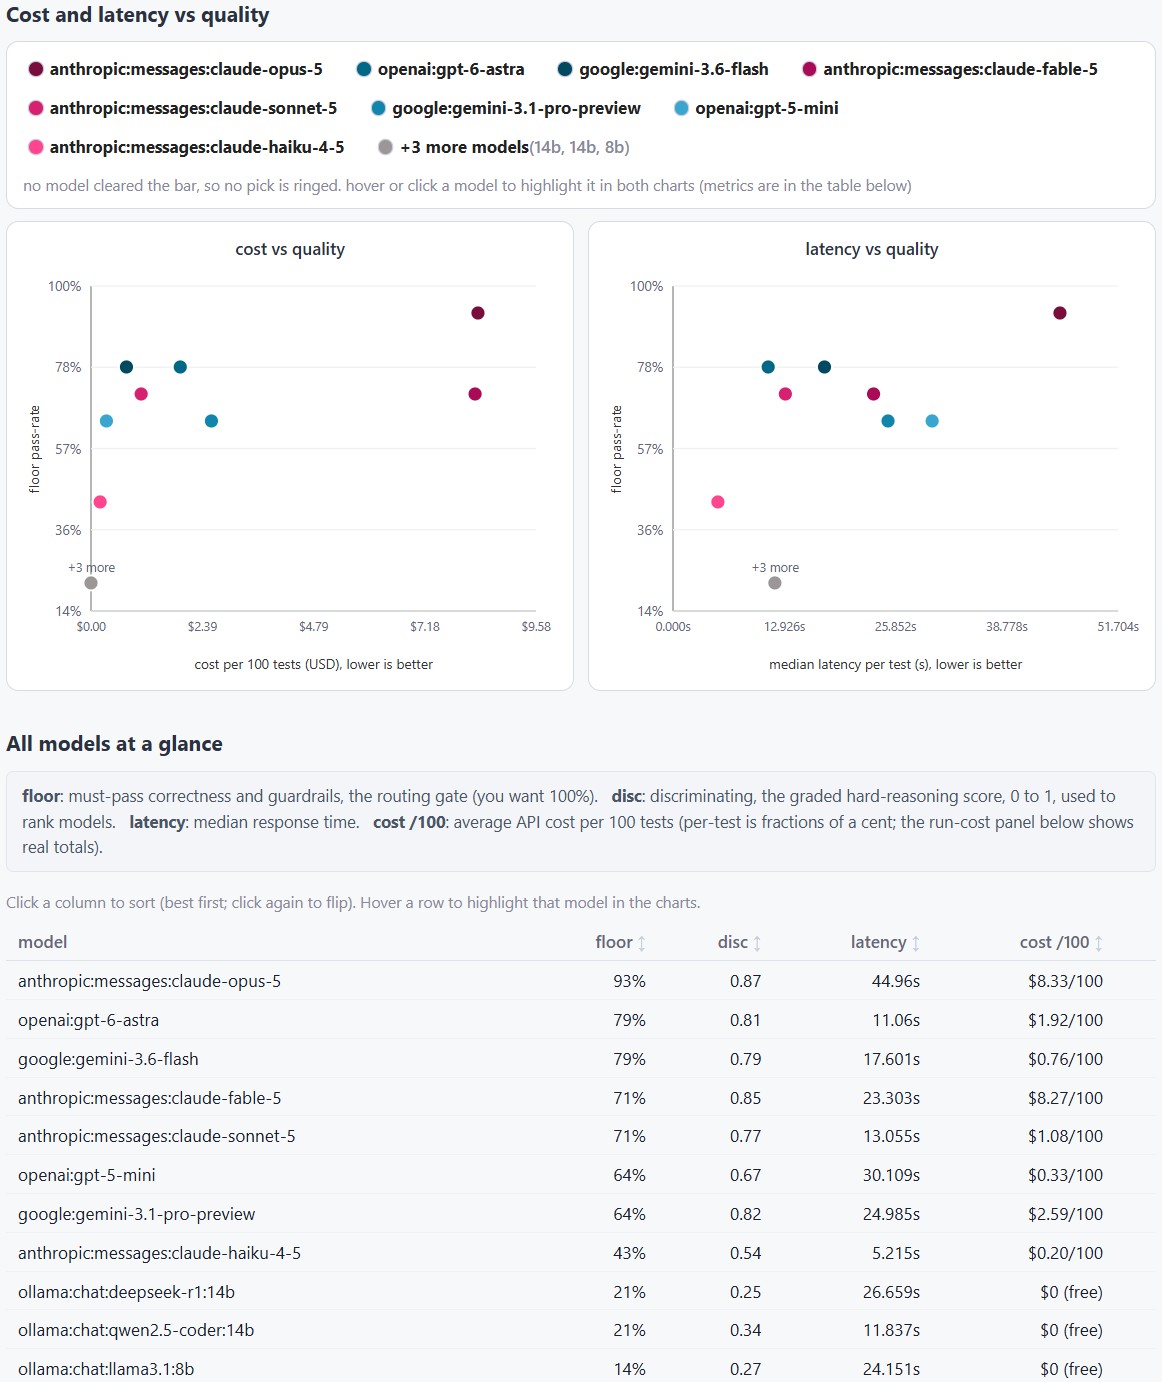
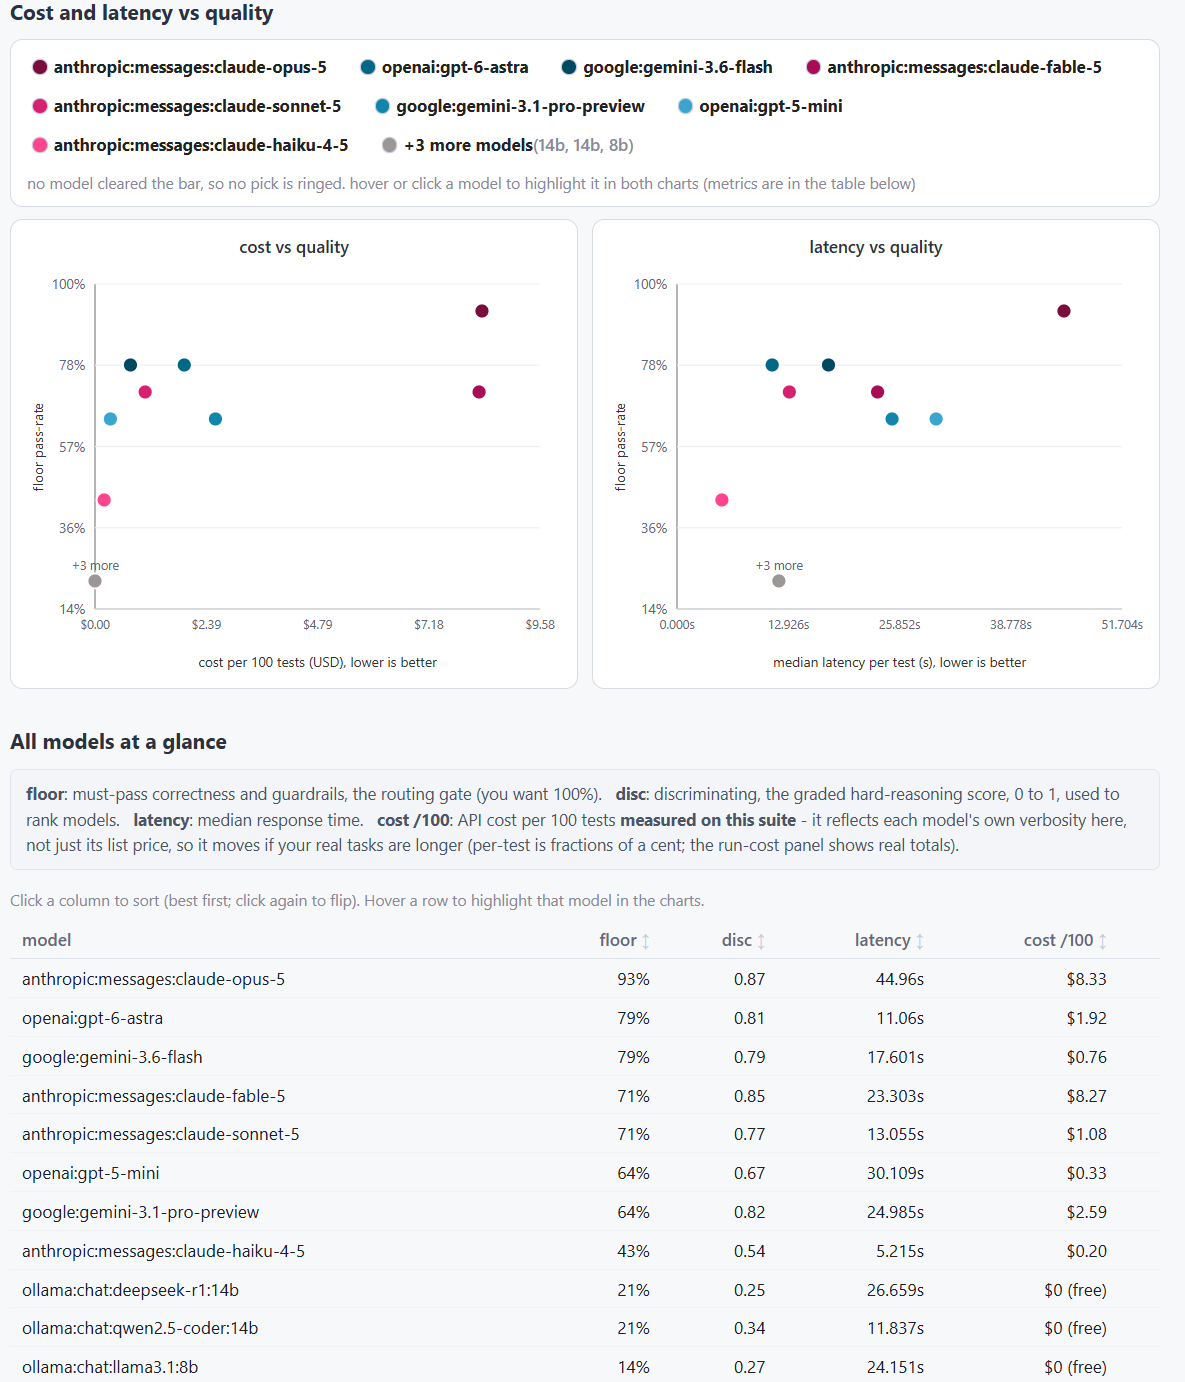
fix(template): sane default judge (sonnet-5 + max_tokens) with swap guidance
The starter template shipped opus-4-8 as the judge with no max_tokens - the
priciest grader, Anthropic-locked, and prone to the empty-grade bug at promptfoo's
2048 default. Default is now sonnet-5 with config.max_tokens 16000 and a comment
explaining the judge is configurable (pick a strong model you have a key for,
ideally a non-contestant; mid-tier keeps grading cost down). Added a providers note
about reasoning-model headroom, and the same guidance to the eval-design guide.
Also refreshes the example report screenshot.

Claude-Session: https://claude.ai/code/session_01AAPqb6qZAq9yp7wTFZuhMY

diff --git a/docs/eval-design-guide.md b/docs/eval-design-guide.md
@@ -187,6 +187,12 @@ it is cheaper, faster, and not subject to judge noise. Reserve the graded judge
 for genuine reasoning. Hold the judge model constant (set it once in
 `defaultTest.options.provider`) so it is never a moving variable.
 
+Choose the judge deliberately: one strong model you have a key for, ideally NOT one
+of the models under test (so it cannot favor itself), with `config: { max_tokens:
+16000 }` so a reasoning judge has room to emit a grade rather than spending its whole
+budget thinking. A mid-tier judge (not the priciest model) keeps cost down, since
+grading is usually the bulk of a run's spend.
+
 ## Assertion gotchas (from real runs)
 
 - **Quote every `g-eval` and `llm-rubric` criterion string.** A `": "` inside an
